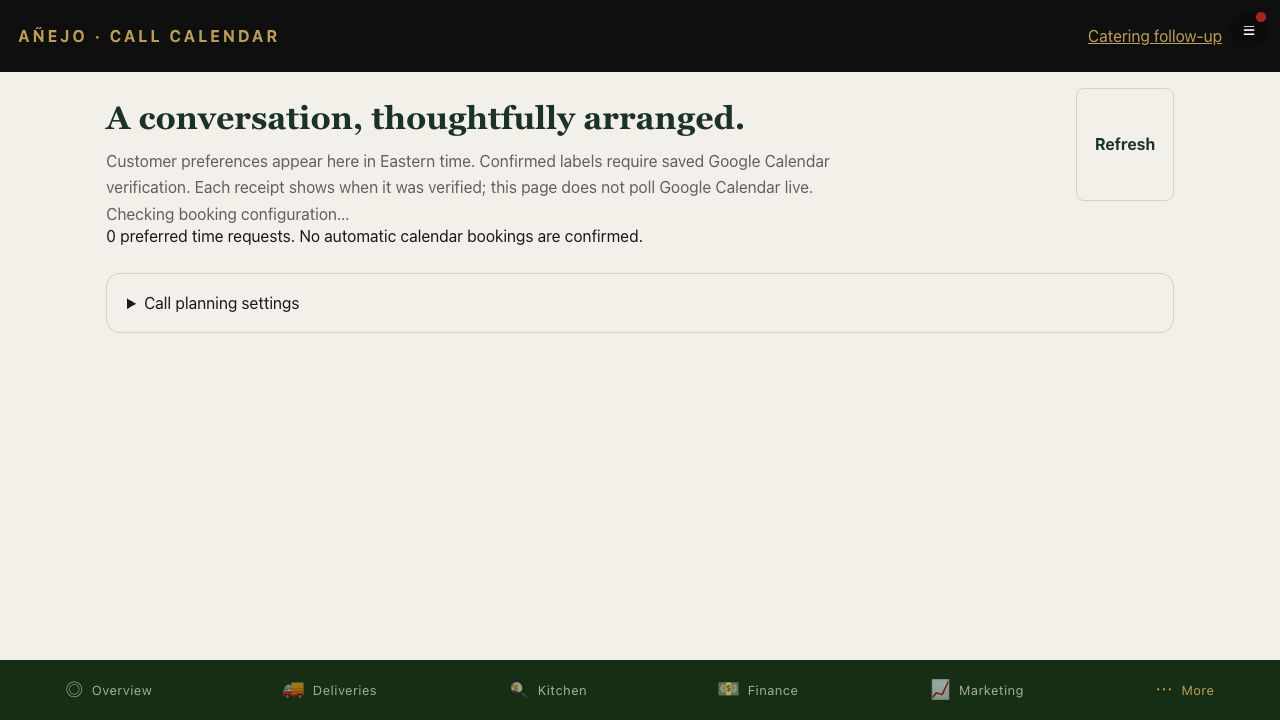
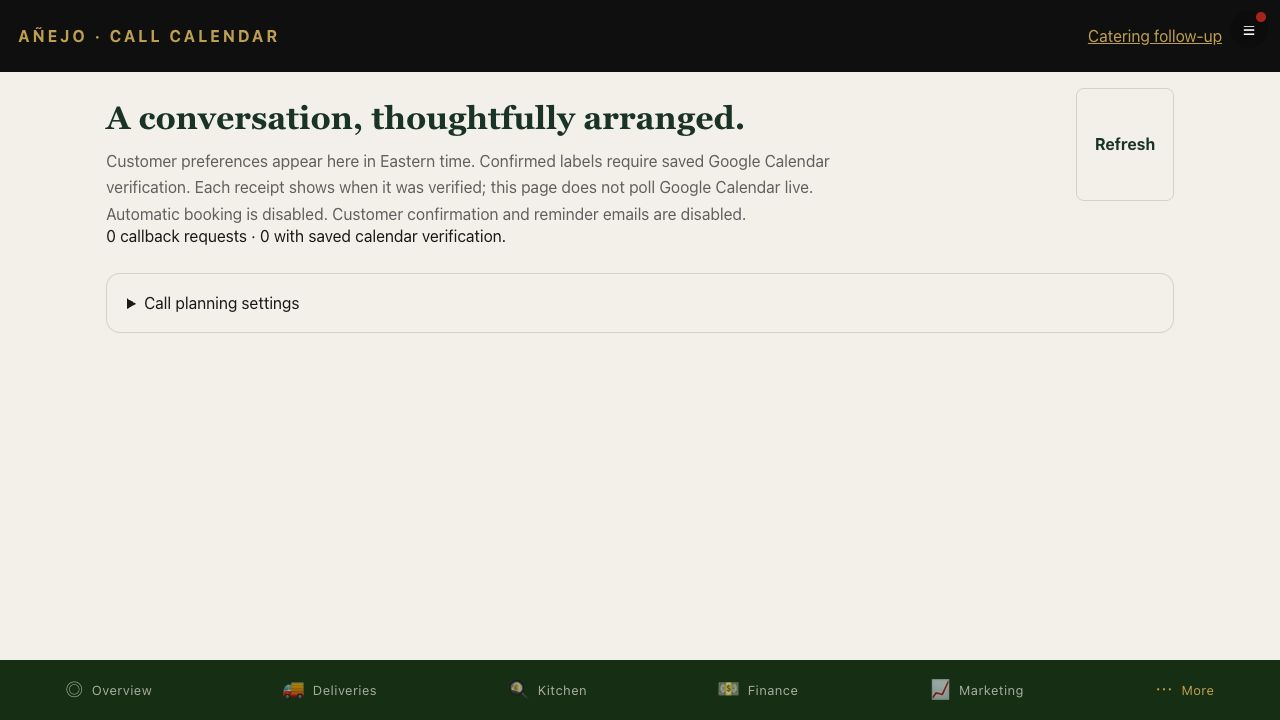
Record deployed callback readiness in existing owner session [skip deploy]

Changed region(s): [[0.0625, 0.275, 0.5938, 0.3361]]

diff --git a/docs/CUSTOMER_QUOTE_SELF_SERVICE_2026-10-17.md b/docs/CUSTOMER_QUOTE_SELF_SERVICE_2026-10-17.md
@@ -49,3 +49,7 @@ Follow-up validation:3,802localtests pass/0fail/0skip;lint0errors/10existingwarn
 
 ## Evidence privacy correction
 Repository visibility verified public during final review. The original live-quote-images.png screenshot included the customer name and quote ID (no email/phone/access token visible). Current file replaced with the non-identifying editor screenshot; it is no longer photo evidence. Exact photo mapping remains covered by synthetic email rendering and live read-only observation. Older Git history may retain the original screenshot. Dayan asked to authorize coordinated history cleanup; no claim of historical removal. Do not publish more customer-identifying screenshots.
+
+
+## Verified application releases
+PR212 merged6564a99; production3c2d8c2b-44ff-4215-bbb1-faa2b7592e2c succeeded. PR213 cache correction merged8a42e0019ddd9f71f9bec6c204709913812af786;production4803cbc2-4ea6-4c95-9d68-e126abe0624f succeeded. All PR212/213 exact-head hosted checks passed. Same supported browser session now visibly shows Automatic booking is disabled; Customer confirmation and reminder emails are disabled;0requests/0savedcalendarverification. Screenshot live-callback-readiness.png replaced with final observed state. No actual appointment/send/payment/customer quote change. Current screenshot privacy replacement awaits PR214 merge; historical cleanup remains pending Dayan authorization.
